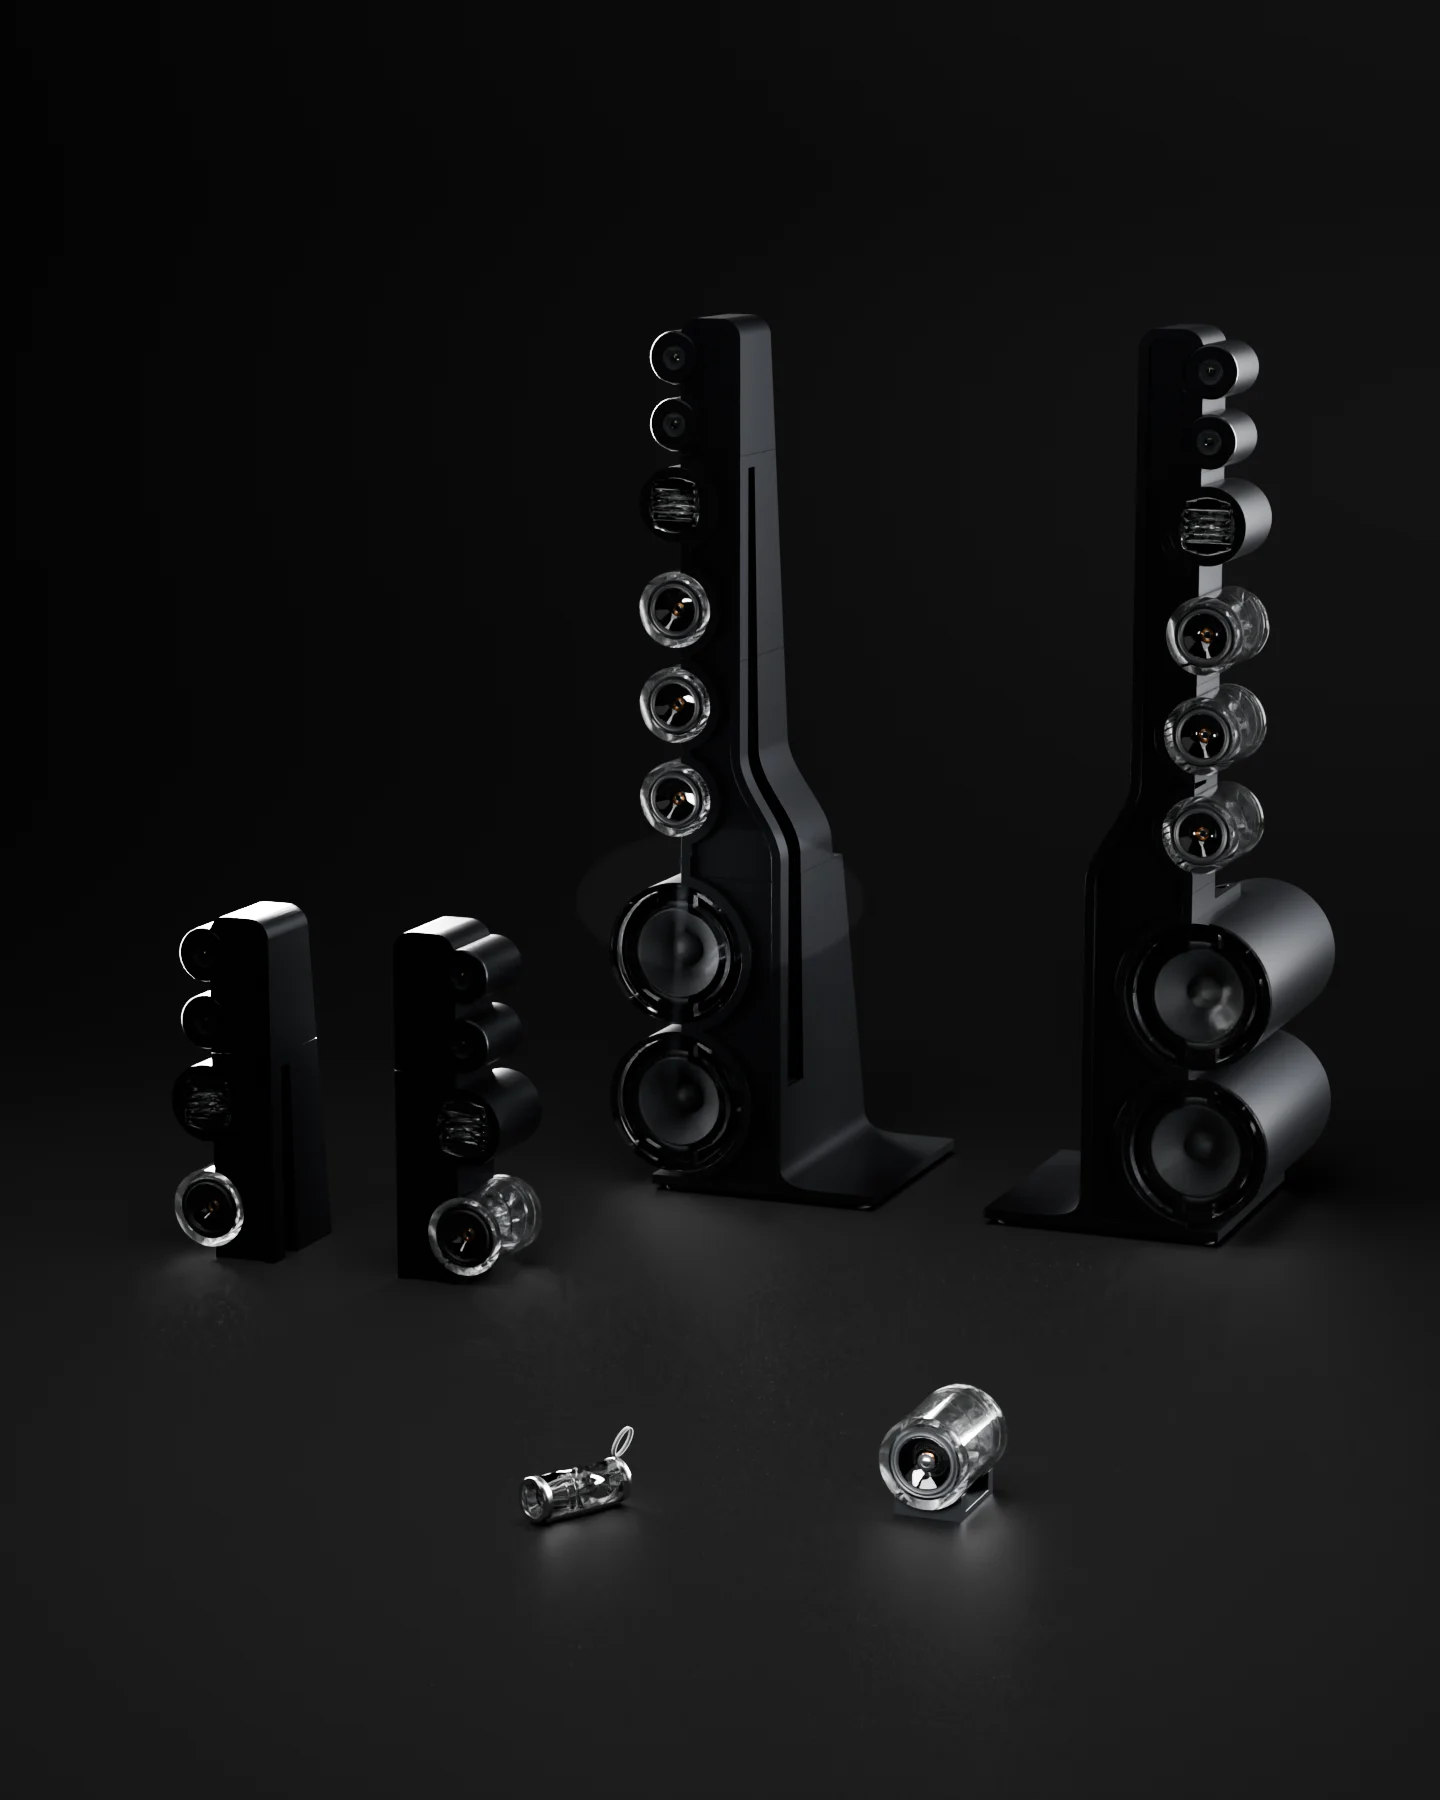
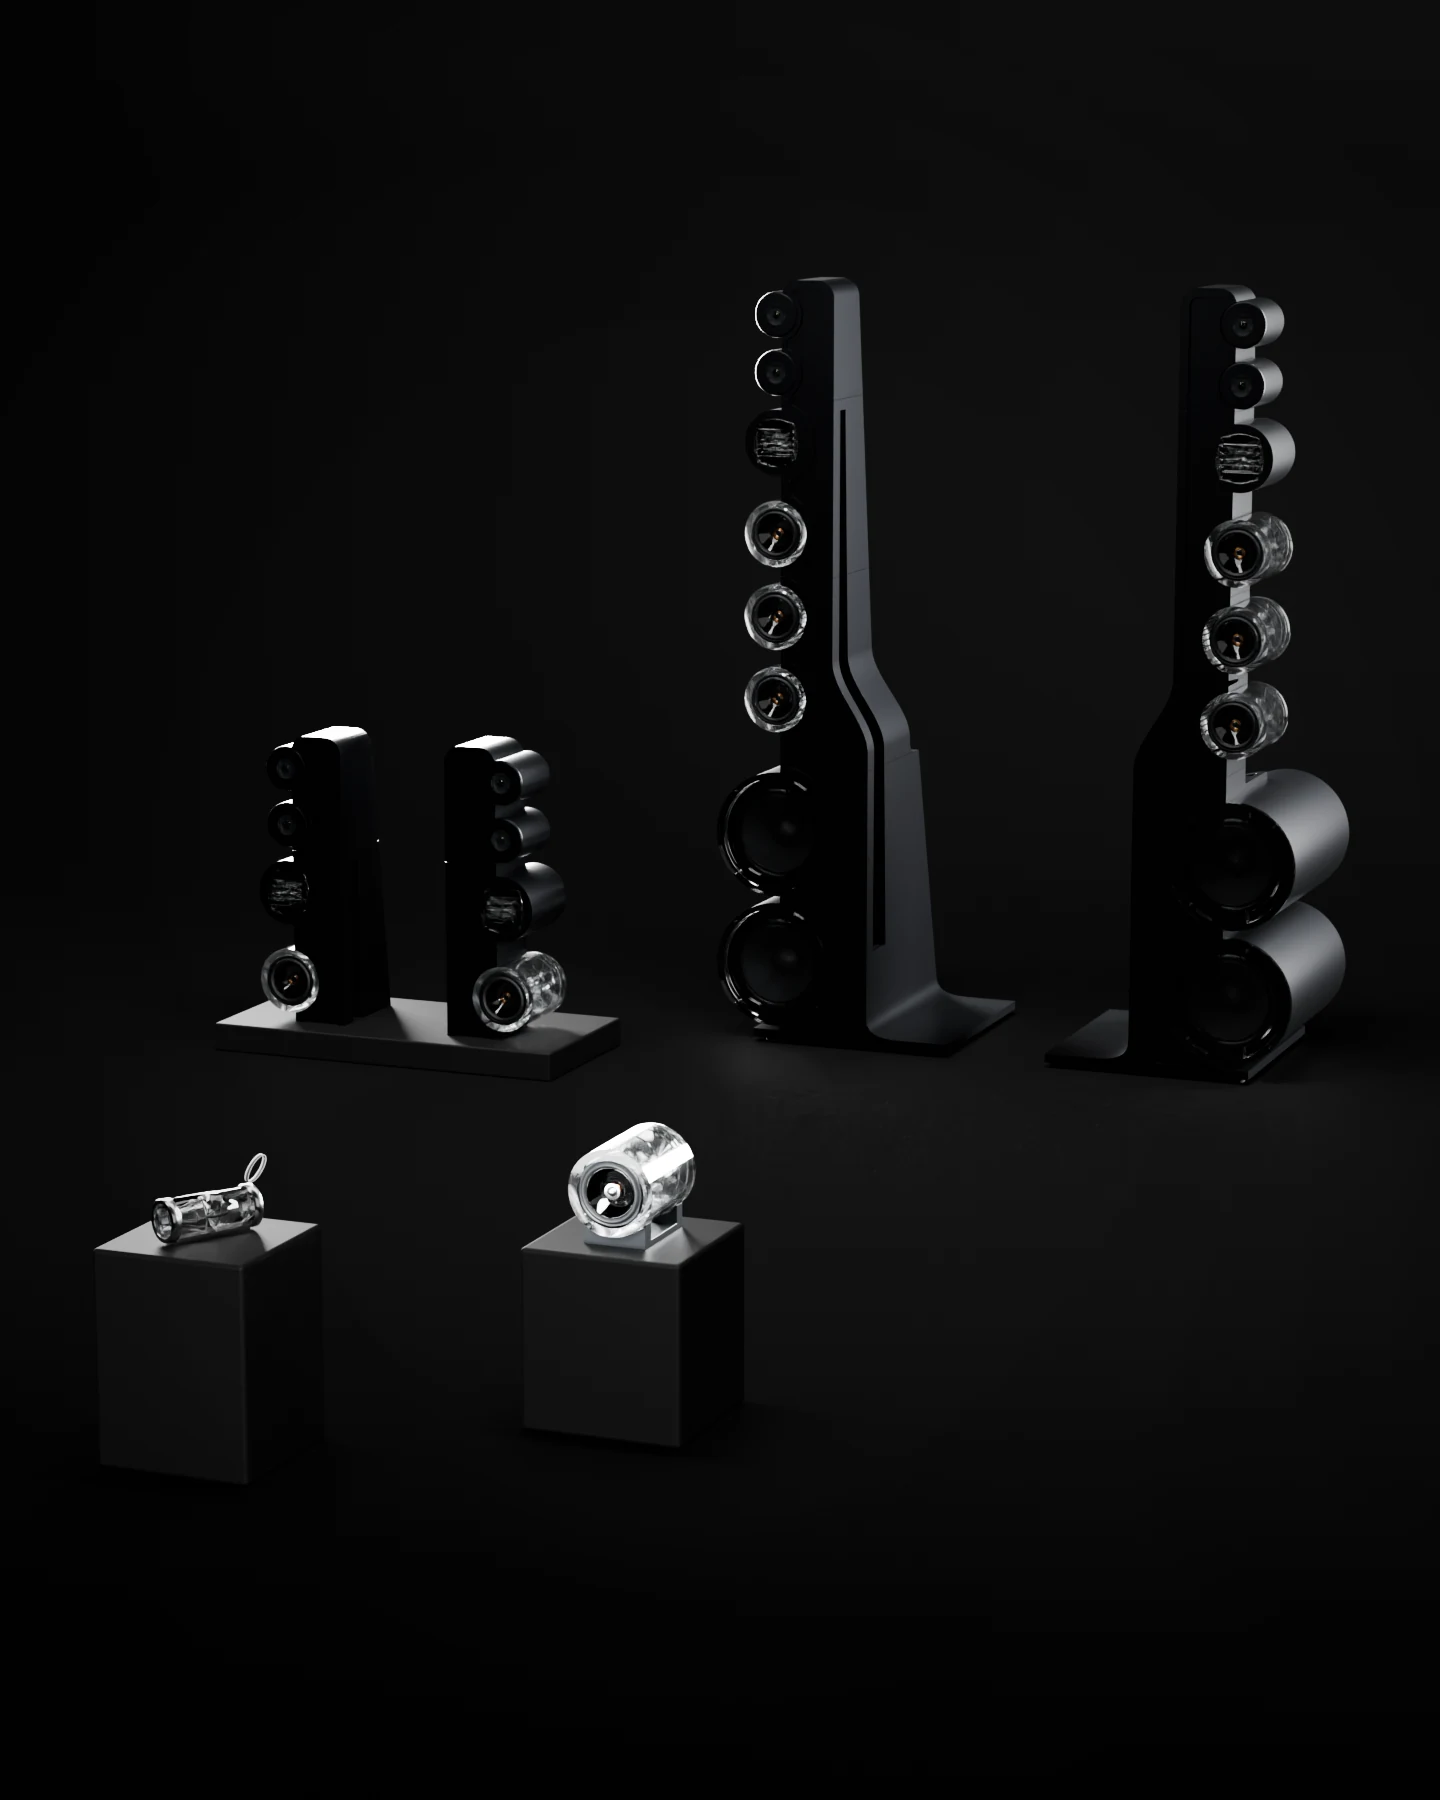
Family v3 black stage + on-plinth close-ups for lineup and 01-03

diff --git a/index.html b/index.html
@@ -731,6 +731,25 @@ body.light #rail .rshape{background:linear-gradient(180deg,rgba(255,255,255,.55)
 body.light #rail .lg-th .t1{stroke:rgba(255,255,255,.95)}
 #rail .redge>path{stroke-width:1.2}
 body.light #rail{background:none!important;box-shadow:none!important}
+
+/* on-stage close-ups (opaque near-black renders): melt edges into the page */
+#s-family .fam{grid-template-columns:1.5fr 1.5fr 1.6fr 1.6fr!important;gap:1.6vw!important;align-items:start!important}
+#s-family .fam figure{height:auto!important;aspect-ratio:auto;display:block!important;margin-bottom:14px!important}
+#s-family .fam a figure img{max-height:none!important;width:100%!important;height:auto!important;filter:none!important;transform:none!important;border-radius:18px;
+ -webkit-mask:radial-gradient(120% 120% at 50% 45%,#000 55%,transparent 100%);mask:radial-gradient(120% 120% at 50% 45%,#000 55%,transparent 100%);transition:transform .6s cubic-bezier(.2,.7,.1,1)}
+#s-family .fam a:hover figure img{transform:scale(1.03)!important}
+.pd-fig.stage img{filter:none!important;width:auto;max-width:100%;max-height:100%;object-fit:contain;
+ -webkit-mask:radial-gradient(75% 75% at 50% 48%,#000 60%,transparent 100%);mask:radial-gradient(75% 75% at 50% 48%,#000 60%,transparent 100%)}
+body.light #s-family .fam a figure img,body.light .pd-fig.stage img{-webkit-mask:none;mask:none;border-radius:22px;box-shadow:0 30px 60px -30px rgba(0,0,0,.45)}
+#p01 .pd-fig{height:72vh!important}
+@media(max-width:900px){#s-family .fam{grid-template-columns:1fr 1fr!important}}
+
+.pd-fig.stage{background:none!important;border:0!important;box-shadow:none!important;border-radius:0!important;width:100%!important;max-width:1500px!important;aspect-ratio:auto!important;padding:0!important}
+.pd-fig.stage::before,.pd-fig.stage::after,.pd-fig.stage>*:not(img){display:none!important}
+.pd-fig.stage img{width:100%!important;height:100%!important;max-width:none!important}
+
+.pd-fig.stage img,#s-family .fam a figure img{-webkit-mask:linear-gradient(90deg,transparent,#000 9%,#000 91%,transparent),linear-gradient(180deg,transparent,#000 9%,#000 91%,transparent);-webkit-mask-composite:source-in;mask:linear-gradient(90deg,transparent,#000 9%,#000 91%,transparent),linear-gradient(180deg,transparent,#000 9%,#000 91%,transparent);mask-composite:intersect}
+body.light .pd-fig.stage img,body.light #s-family .fam a figure img{-webkit-mask:none;mask:none}
 </style>
 </head>
 <body>
@@ -782,17 +801,17 @@ body.light #rail{background:none!important;box-shadow:none!important}
   <p class="body rv" style="margin-top:22px">由小到大：從一顆透明模組的隨身音響，到整組可訂製的高訂。02 起內建 Wi-Fi 與 AI。</p>
   <picture class="famhero rv"><source media="(max-width:900px)" srcset="img/family_port.webp"><img src="img/family.webp" alt="RYTHO HYPE family at true scale"></picture>
   <div class="fam rv">
-    <a href="#p01" data-scene="img/p01_dark.webp"><figure><img src="img/portable_cut.webp" alt=""></figure><b>01</b><span>隨身</span><em data-h="H 180 mm">Bluetooth</em></a>
-    <a href="#p02"><figure><img src="img/u02.webp" alt=""></figure><b>02</b><span>單顆＋底座</span><em class="ai" data-h="H 261 mm">Wi-Fi · AI</em></a>
-    <a href="#p03" data-scene="img/scene_03_wide.webp"><figure><img src="img/u03.webp" alt=""></figure><b>03</b><span>上半段兩節</span><em class="ai" data-h="H 1,022 mm ×2">Wi-Fi · AI</em></a>
-    <a href="#p04"><figure><img src="img/u04.webp" alt=""></figure><b>04</b><span>整組高訂</span><em class="ai" data-h="H 2,693 mm ×2">Wi-Fi · AI</em></a><div id="famScene"><img alt=""></div>
+    <a href="#p01" data-scene="img/p01_dark.webp"><figure><img src="img/c01.webp" alt=""></figure><b>01</b><span>隨身</span><em data-h="H 180 mm">Bluetooth</em></a>
+    <a href="#p02"><figure><img src="img/c02.webp" alt=""></figure><b>02</b><span>單顆＋底座</span><em class="ai" data-h="H 261 mm">Wi-Fi · AI</em></a>
+    <a href="#p03" data-scene="img/scene_03_wide.webp"><figure><img src="img/c03.webp" alt=""></figure><b>03</b><span>上半段兩節</span><em class="ai" data-h="H 1,022 mm ×2">Wi-Fi · AI</em></a>
+    <a href="#p04"><figure><img src="img/c04.webp" alt=""></figure><b>04</b><span>整組高訂</span><em class="ai" data-h="H 2,693 mm ×2">Wi-Fi · AI</em></a><div id="famScene"><img alt=""></div>
   </div>
 </div></section>
 <section class="pd" id="p01"><div class="wrap">
   <div class="pd-head rv"><span class="pd-n">01</span><span class="pd-en">Portable</span></div>
   <h2 class="pd-t rv">隨身</h2>
   <p class="pd-line rv">螺旋全透明聲學腔，一手帶走。</p>
-  <figure class="pd-fig rv p01fig"><img class="th-d" src="img/p01_dark.webp" alt="隨身"><img class="th-l" src="img/p01_light.webp" alt="隨身"></figure>
+  <figure class="pd-fig rv stage p01fig"><img src="img/c01.webp" alt="隨身"></figure>
   
   <dl class="pd-facts rv">
     <div><dt>取自整塔</dt><dd>透明中音模組的振膜與螺旋腔</dd></div>
@@ -813,7 +832,7 @@ body.light #rail{background:none!important;box-shadow:none!important}
   <div class="pd-head rv"><span class="pd-n">02</span><span class="pd-en">Home AI · Single</span></div>
   <h2 class="pd-t rv">單顆＋底座</h2>
   <p class="pd-line rv">一顆透明模組，中心加同軸高音。</p>
-  <figure class="pd-fig rv"><img src="img/u02.webp" alt="單顆＋底座"></figure>
+  <figure class="pd-fig rv stage"><img src="img/c02.webp" alt="單顆＋底座"></figure>
   
   <dl class="pd-facts rv">
     <div><dt>取自整塔</dt><dd>透明中音模組 ×1＋新增同軸高音、底座</dd></div>
@@ -826,7 +845,7 @@ body.light #rail{background:none!important;box-shadow:none!important}
   <div class="pd-head rv"><span class="pd-n">03</span><span class="pd-en">Home AI · Upper Two</span></div>
   <h2 class="pd-t rv">上半段兩節</h2>
   <p class="pd-line rv">整塔上半段直接取下，自己就能站立。</p>
-  <figure class="pd-fig rv"><img src="img/u03.webp" alt="上半段兩節"></figure>
+  <figure class="pd-fig rv stage"><img src="img/c03.webp" alt="上半段兩節"></figure>
   
   <dl class="pd-facts rv">
     <div><dt>取自整塔</dt><dd>小圓高音 ×2、方形單體、透明中音 ×1</dd></div>

diff --git a/_tools/edit_closeups.py b/_tools/edit_closeups.py
@@ -1,0 +1,25 @@
+p='index.html';t=open(p,encoding='utf-8').read()
+t=t.replace('<figure><img src="img/portable_cut.webp" alt=""></figure>','<figure><img src="img/c01.webp" alt=""></figure>',1)
+t=t.replace('<a href="#p02"><figure><img src="img/u02.webp" alt="">','<a href="#p02"><figure><img src="img/c02.webp" alt="">',1)
+t=t.replace('<figure><img src="img/u03.webp" alt=""></figure>','<figure><img src="img/c03.webp" alt=""></figure>',1)
+t=t.replace('<figure><img src="img/u04.webp" alt=""></figure>','<figure><img src="img/c04.webp" alt=""></figure>',1)
+t=t.replace('<img class="th-d" src="img/p01_dark.webp" alt="隨身"><img class="th-l" src="img/p01_light.webp" alt="隨身">','<img src="img/c01.webp" alt="隨身">')
+t=t.replace('<figure class="pd-fig rv"><img src="img/u02.webp" alt="單顆＋底座"></figure>','<figure class="pd-fig rv stage"><img src="img/c02.webp" alt="單顆＋底座"></figure>')
+t=t.replace('<figure class="pd-fig rv"><img src="img/u03.webp" alt="上半段兩節"></figure>','<figure class="pd-fig rv stage"><img src="img/c03.webp" alt="上半段兩節"></figure>')
+t=t.replace('pd-fig rv p01fig','pd-fig rv stage p01fig')
+t=t.replace('?v=','?v=')
+css='''
+/* on-stage close-ups (opaque near-black renders): melt edges into the page */
+#s-family .fam{grid-template-columns:1.5fr 1.5fr 1.6fr 1.6fr!important;gap:1.6vw!important;align-items:start!important}
+#s-family .fam figure{height:auto!important;aspect-ratio:auto;display:block!important;margin-bottom:14px!important}
+#s-family .fam a figure img{max-height:none!important;width:100%!important;height:auto!important;filter:none!important;transform:none!important;border-radius:18px;
+ -webkit-mask:radial-gradient(120% 120% at 50% 45%,#000 55%,transparent 100%);mask:radial-gradient(120% 120% at 50% 45%,#000 55%,transparent 100%);transition:transform .6s cubic-bezier(.2,.7,.1,1)}
+#s-family .fam a:hover figure img{transform:scale(1.03)!important}
+.pd-fig.stage img{filter:none!important;width:auto;max-width:100%;max-height:100%;object-fit:contain;
+ -webkit-mask:radial-gradient(75% 75% at 50% 48%,#000 60%,transparent 100%);mask:radial-gradient(75% 75% at 50% 48%,#000 60%,transparent 100%)}
+body.light #s-family .fam a figure img,body.light .pd-fig.stage img{-webkit-mask:none;mask:none;border-radius:22px;box-shadow:0 30px 60px -30px rgba(0,0,0,.45)}
+#p01 .pd-fig{height:72vh!important}
+@media(max-width:900px){#s-family .fam{grid-template-columns:1fr 1fr!important}}
+'''
+t=t.replace('</style>',css+'</style>',1)
+open(p,'w',encoding='utf-8').write(t);print(t.count('img/c0'))
